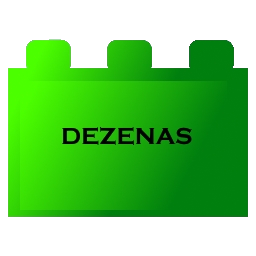
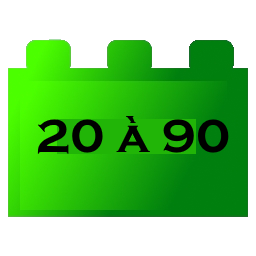
troca de centenas por numeros

Changed region(s): [[0.125, 0.4375, 0.9062, 0.625]]

diff --git a/Paginas/unidades.html b/Paginas/unidades.html
@@ -11,9 +11,11 @@
 
 <body> 
     <div class="letras">
-        <h1 class="alfabeto">Unidades</h1>
+        <h1 class="alfabeto">Números de 1 à 10</h1>
         <tr>
             <td><img onmouseover="mouseOver()" onmouseout="StopSound('mySound')" src="./imagens/numerais/1.jpg" alt="letra a" class="quadrado quadrado-uma"></td>
+             <!--numero10 -->
+          
             <td><img src="./imagens/numerais/2.jpg" alt="letra b" class="quadrado quadrado-uma"></td>
             <td><img src="./imagens/numerais/3.jpg" alt="letra c" class="quadrado quadrado-uma"></td>
             <td><img src="./imagens/numerais/4.jpg" alt="letra d" class="quadrado quadrado-uma"></td>
@@ -22,7 +24,7 @@
             <td><img src="./imagens/numerais/7.jpg" alt="letra g" class="quadrado quadrado-uma"></td>
             <td><img src="./imagens/numerais/8.jpg" alt="letra i" class="quadrado quadrado-uma"></td>
             <td><img src="./imagens/numerais/9.jpg" alt="letra j" class="quadrado quadrado-uma"></td>
-            
+            <td><img  src="./imagens/numerais/dezenas/10.jpg" alt="dezena formada pelo numeral 10" class="quadrado quadrado-uma"></td>
         </tr>
     </div>
 </body>

diff --git a/Paginas/centenas.html b/Paginas/centenas.html
@@ -9,7 +9,7 @@
 
 <body>
     <div class="letras">
-        <h1 class="alfabeto">Centenas</h1>
+        <h1 class="alfabeto">Números de 100 à 1000</h1>
         <tr>
 
             <!--numero100 -->
@@ -30,7 +30,9 @@
             <td><img src="./imagens/numerais/centenas/800.jpg" alt="centena formada pelo numeral 800" class="quadrado quadrado-uma"></td>
             <!--numero900 -->
             <td><img src="./imagens/numerais/centenas/900.jpg" alt="centena formada pelo numeral 900" class="quadrado quadrado-uma"></td>
-            <!--numero1000 -->
+             <!--numero1000 -->
+            <td><img src="./imagens/numerais/centenas/1000.jpg" alt="centena formada pelo numeral 900" class="quadrado quadrado-uma"></td>
+           
             
         </tr>
     </div>

diff --git a/Paginas/dezenas.html b/Paginas/dezenas.html
@@ -10,11 +10,10 @@
 
 <body>
     <div class="letras">
-        <h1 class="alfabeto">Dezenas</h1>
+        <h1 class="alfabeto">Números de 20 à 90</h1>
         <tr>
 
-            <!--numero10 -->
-            <td><img  src="./imagens/numerais/dezenas/10.jpg" alt="dezena formada pelo numeral 10" class="quadrado quadrado-uma"></td>
+           
             <!--numero20 -->
             <td><img src="./imagens/numerais/dezenas/20.jpg" alt="letra c" class="quadrado quadrado-uma"></td>
             <!--numero30 -->
